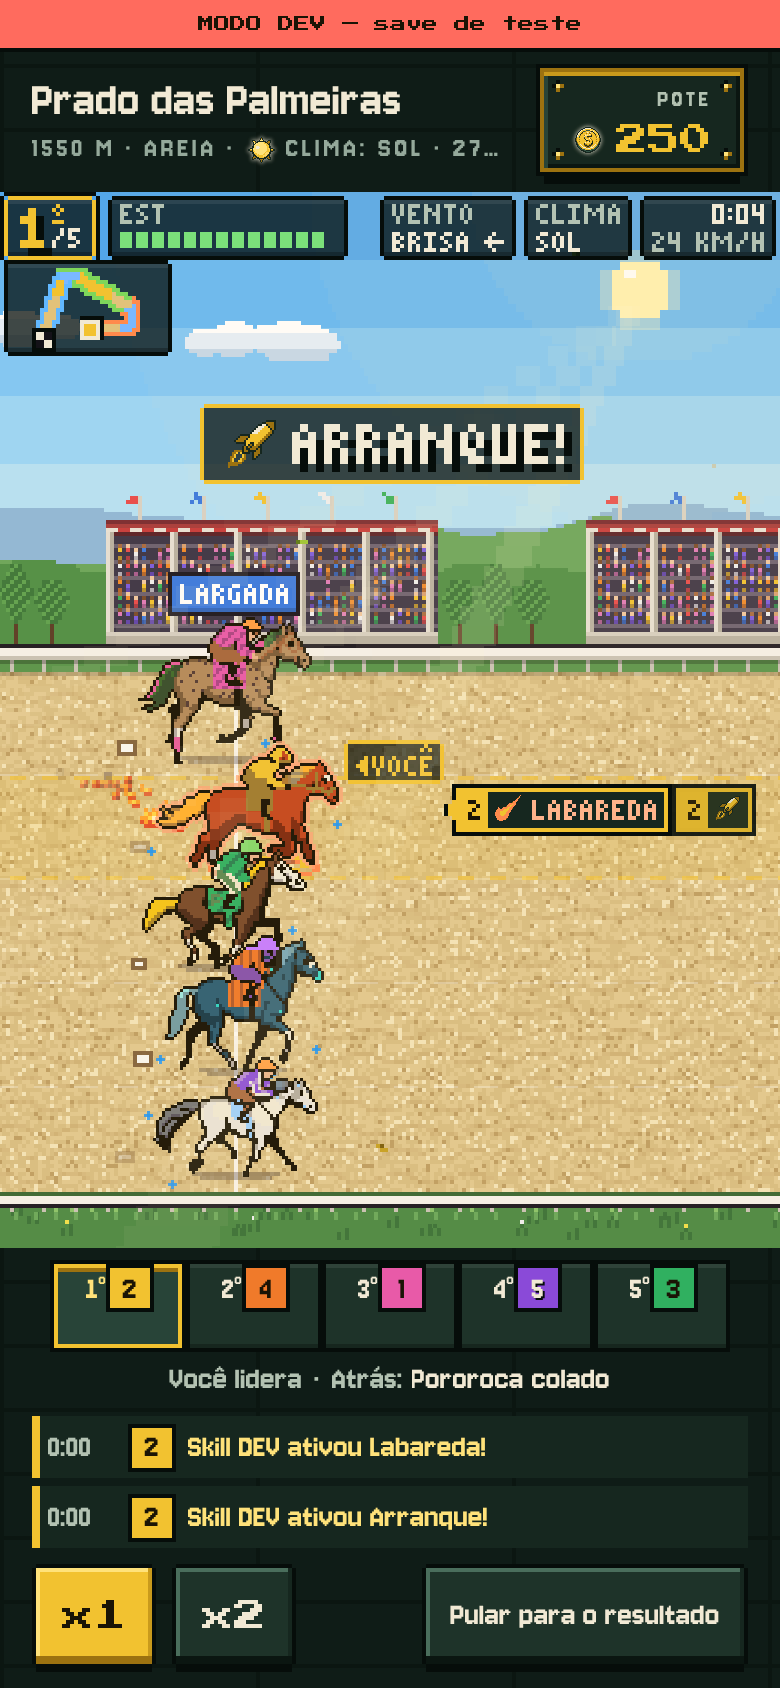
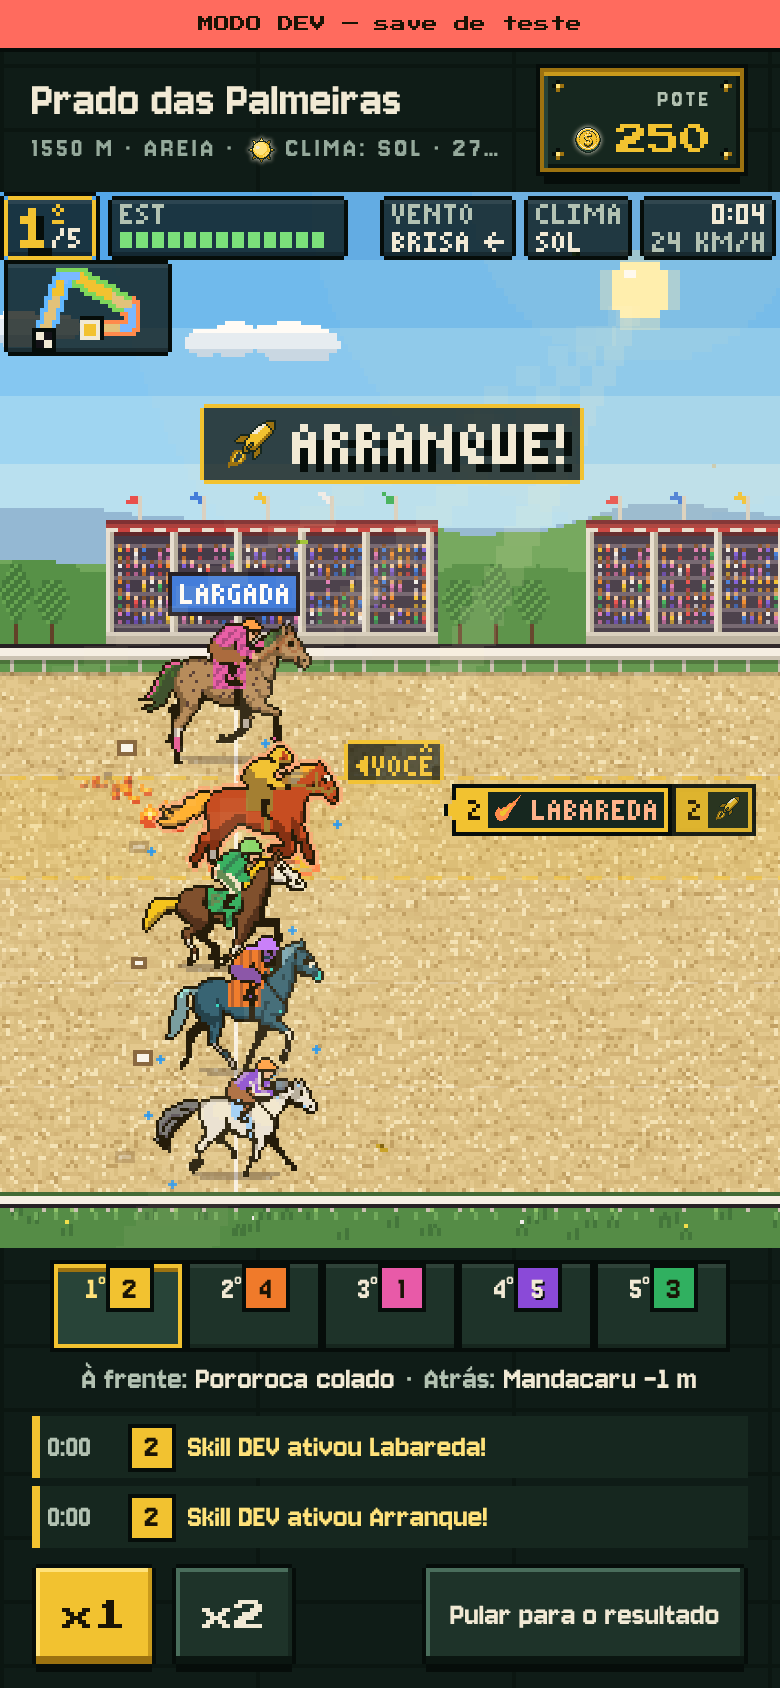
fixa a seed do bloco menu, mede a barra só onde ela existe e regenera capturas
- ui-test, bloco "menu": seedBase fixo depois do "Escolher Brasa"
  (Ruling 19), para as capturas 03, 04, 10 e 11 não mudarem por sorteio
- ui-test, bloco "celular": "a barra não cresce" só no Confirmar, onde há
  a .barra-acao, e exige a barra antes do toque
- capturas oficiais regeneradas (final-12-dado.png com "CASCO FIRME"
  inteiro)
- memória: Rulings 18 e 19 nas decisões; pendências da plaquinha e da
  chuva antes da revelação fechadas; contagens do check.sh

Claude-Session: https://claude.ai/code/session_01MGExzKELAJ58uyj4wakVgJ

Changed region(s): [[0.0923, 0.8009, 0.8923, 0.8318], [0.1231, 0.4621, 0.1846, 0.4929]]

diff --git a/docs/memoria/ESTADO.md b/docs/memoria/ESTADO.md
@@ -19,7 +19,7 @@ protótipo vira o jogo, a mesma base web empacotada para Android, com os módulo
   - no computador: `prototype/dist/preview.html` (com `?dev=1` para o modo DEV).
 - **Modo DEV:** save separado (`galope-elemental:dev`), gaveta "DEV" com Moedas, Cavalo, Itens,
   Próxima corrida (pista, clima, vento, skills sempre) e Perfil. Nunca toca no save real.
-- **Verificação:** `./scripts/check.sh` em 8 etapas termina em `VERIFICAÇÃO COMPLETA: OK` (129 testes de simulação, 117 de efeitos, 170 de moldes, 615 conferências do wiki, 87 metas de balanço no modo rápido e 165 no completo, e o teste de interface; contagem de 2026-11-16, parte 3c da Visuais 2: 129 / 117 / 170 / 615 / 87, sem mudança nas regras; os testes de efeitos
+- **Verificação:** `./scripts/check.sh` em 8 etapas termina em `VERIFICAÇÃO COMPLETA: OK` (129 testes de simulação, 117 de efeitos, 170 de moldes, 615 conferências do wiki, 87 metas de balanço no modo rápido e 165 no completo, e o teste de interface; contagem de 2026-11-16, parte 3c da Visuais 2, refeita depois da onda de correção da revisão final: 129 / 117 / 170 / 615 / 87, sem mudança nas regras; os testes de efeitos
   passaram de 104 para 117 com a 3c).
 
 ## Pronto (o detalhe de cada frente está na spec, em `docs/superpowers/specs/`)
@@ -119,8 +119,9 @@ Vinicius joga antes e decide.
   a distância); narração em caixa de altura fixa (cada frase em até 2 linhas, sem "…"; em tela baixa, uma frase em uma linha, que pode
   cortar com "…"); Dado da Sorte numa faixa grande na
   pista, com o número de cada corredor na faixa de ordem, revelados só quando os dados param; faixa do lugar na chegada;
-  nome inteiro das skills dos rivais nas plaquinhas quando a plaquinha cabe na pista (perto da borda direita ela ainda pode
-  sair cortada; ver as pendências); contorno e bisel no painel do topo; resultado numa tela, com as abas
+  nome inteiro das skills dos rivais nas plaquinhas quando a plaquinha cabe na pista (perto da borda direita, um balão mais
+  velho do mesmo cavalo que voltaria para cima do nome não é desenhado: em `final-12-dado.png` a da raia 6 sai "CASCO FIRME"
+  inteira); contorno e bisel no painel do topo; resultado numa tela, com as abas
   Chegada e Momentos e o 1º lugar maior no pódio; as três pendências da 3b (motivo repetido, lista que pulava, "Ativa" nas
   cores forçadas). Nenhuma regra, número ou texto de regra mudou.
 - **Medidas antes → depois** (modo DEV, densidade 2):
@@ -136,12 +137,15 @@ Vinicius joga antes e decide.
 - **Verificação:** `./scripts/check.sh` OK (129 testes de simulação, 117 de efeitos — eram 104: a 3c acrescentou os das faixas
   novas e das plaquinhas e tirou os 2 da faixa de números antiga —, 170 de moldes, 615 conferências do wiki, 87 metas no
   balanço rápido e o teste de interface). Capturas oficiais de `prototype/screens/` regeneradas (31 imagens, nenhuma nova
-  nem removida; 20 mudaram). Folha da interface com a faixa de ordem (normal, com o Dado e em tela baixa) e as abas do resultado
+  nem removida; 20 mudaram) e de novo na onda de correção da revisão final (19 de 31 mudaram; de propósito, a
+  `final-12-dado.png`, com o nome inteiro na plaquinha; o resto são capturas de corrida, que mudam um pouco a cada rodada,
+  e a 03, a 04 e a 10 do bloco "menu", que agora fixa o `seedBase`). Folha da interface com a faixa de ordem (normal, com o Dado e em tela baixa) e as abas do resultado
   (seções 4.16 e 4.17).
 - **A confirmar com o Vinicius (gosto, 3c):**
   - a faixa de ordem só com a posição e o selo da raia (sem o nome do cavalo nos itens);
   - "colado" no lugar de "+0 m";
-  - o momento do Dado: título "DADO DA SORTE" enquanto os dados giram; o vencedor, a narração e o clima do painel só depois;
+  - o momento do Dado: título "DADO DA SORTE" enquanto os dados giram; o vencedor, a narração, o clima do painel e a chuva ou
+    a névoa da pista só depois;
   - a faixa do Dado e a do lugar descem para o pé da pista quando cobririam o cavalo dele (raias de cima);
   - o fim da corrida espera a faixa do lugar (2,5 s) antes do resultado;
   - resultado: as frases de enfeite embaixo da manchete saíram (fica só a do pódio sem prêmio); o saldo ao lado do XP; os
@@ -152,11 +156,7 @@ Vinicius joga antes e decide.
 - **Pendências conhecidas:**
   - paisagem (780×360) com 7 ou 8 corredores: os controles da corrida saem da janela de 360 px de altura (o fundo
     deles fica em 374 px em produção com 8; 398 no DEV com 8; 374 no DEV com 7). Já era assim antes da 3c, e a faixa de ordem não piora; cabem produção com até 7 e DEV com até 6;
-  - a chuva e a névoa desenhadas na pista começam no instante do evento, ~1 s antes de a faixa do Dado revelar o resultado;
-  - nas cores forçadas, o selo "Nv N" da linha do Estábulo continua sem contorno (só aparência);
-  - a plaquinha de skill de um rival perto da borda direita da pista sai cortada: em `final-12-dado.png` a da raia 6 aparece
-    como "CASCO FIRM", com outra plaquinha "6" encostada. Já existia antes da 3c (a mesma captura em 3641640 mostra o mesmo
-    corte).
+  - nas cores forçadas, o selo "Nv N" da linha do Estábulo continua sem contorno (só aparência).
 
 ## Em andamento
 - **Ginásios:** ideia registrada (`docs/GDD.md` §8.6); desenho depois do bloco 1b, que também traz a fonte da Rédea nova. Cada ginásio tem o

diff --git a/docs/memoria/decisoes.md b/docs/memoria/decisoes.md
@@ -32,9 +32,16 @@ O que é gosto e espera a palavra dele está em `ESTADO.md` ("A confirmar com o 
 - **(controlador) O Dado guarda o suspense até os dados pararem:** enquanto giram, a faixa grande mostra só o dado e "DADO DA
   SORTE", centralizados e grandes, e a faixa de ordem fica sem números; o vencedor, os números, a frase da narração (a do Dado
   e a da virada de clima que ele causa), o clima do painel, o clarão e o aviso para o leitor de tela aparecem juntos, na
-  revelação. Com movimento reduzido nada espera. A chuva e a névoa desenhadas na pista seguem a corrida, como antes — nada
-  na tela pode adiantar o que a pista ainda não mostrou. Custo se errado: por ~1 s a faixa mostra um título no lugar do
+  revelação. Com movimento reduzido nada espera. A chuva e a névoa desenhadas na pista também esperam (decisão seguinte) —
+  nada na tela pode adiantar o que a pista ainda não mostrou. Custo se errado: por ~1 s a faixa mostra um título no lugar do
   resultado, e a narração do Dado chega ~1 s depois do instante do evento.
+- **(controlador) A chuva e a névoa desenhadas na pista também esperam a revelação do Dado** (emenda a anterior, que as deixava
+  seguir a simulação): a pista desenha o clima mostrado, o mesmo do painel; a velocidade dos cavalos continua a da simulação,
+  que já conta o clima novo — começar a chover com o título "DADO DA SORTE" ainda girando entregava o resultado que a faixa e
+  a narração guardam. Custo se errado: durante um Dado, o enfeite do clima atrasa ~1 s em relação à simulação.
+- **(controlador) O bloco "menu" do teste de interface fixa o `seedBase` do save novo** — as capturas oficiais 03, 04, 10 e 11
+  (saldo e XP depois de uma corrida) saíam de um sorteio a cada rodada, e o CLAUDE.md §4 pede que as capturas oficiais só
+  mudem quando a interface muda. Custo se errado: essas quatro capturas ficam presas a uma seed.
 - **(controlador) A faixa do Dado e a faixa do lugar ficam em cima, logo abaixo do painel; quando ali cobririam o cavalo do
   jogador, vão para o pé da pista** (sobre o gramado e a cerca). A posição é escolhida uma vez por Dado (e na chegada, quando
   o jogador cruza a linha) e não muda enquanto a faixa está na tela, só se a tela for redimensionada; as duas faixas nunca
